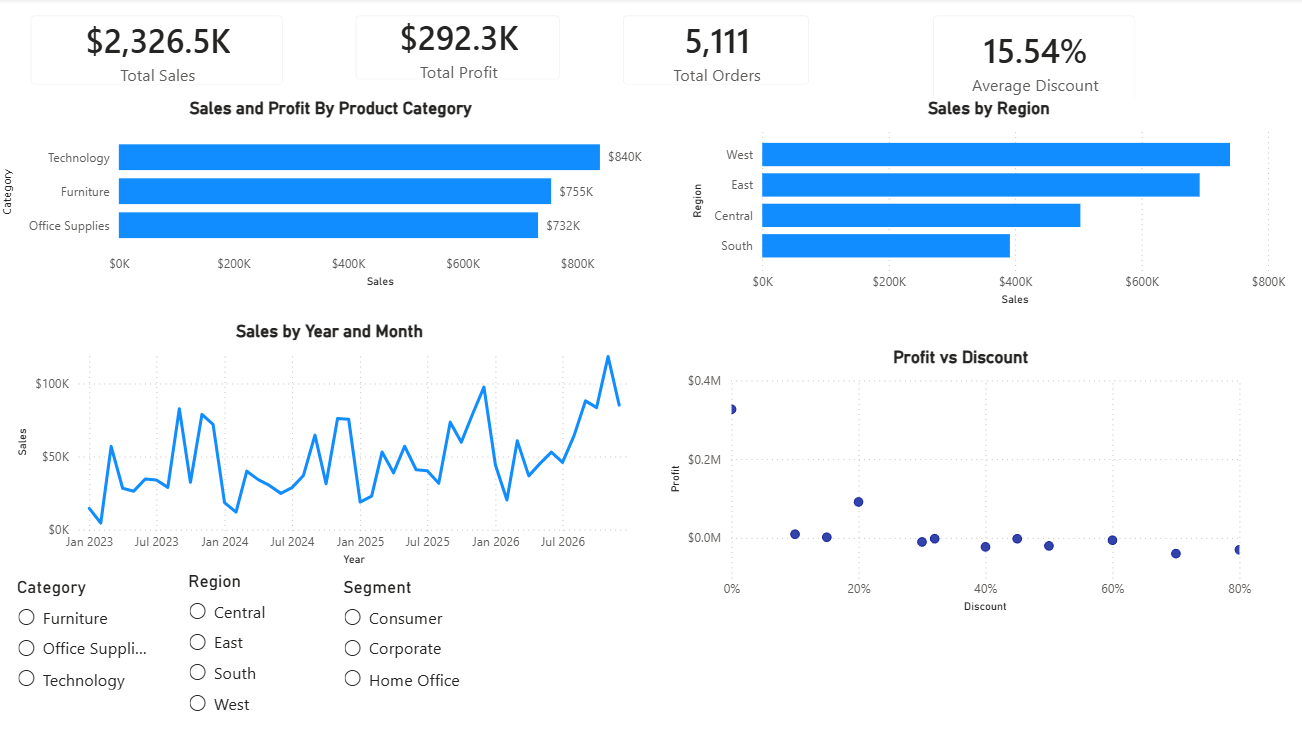
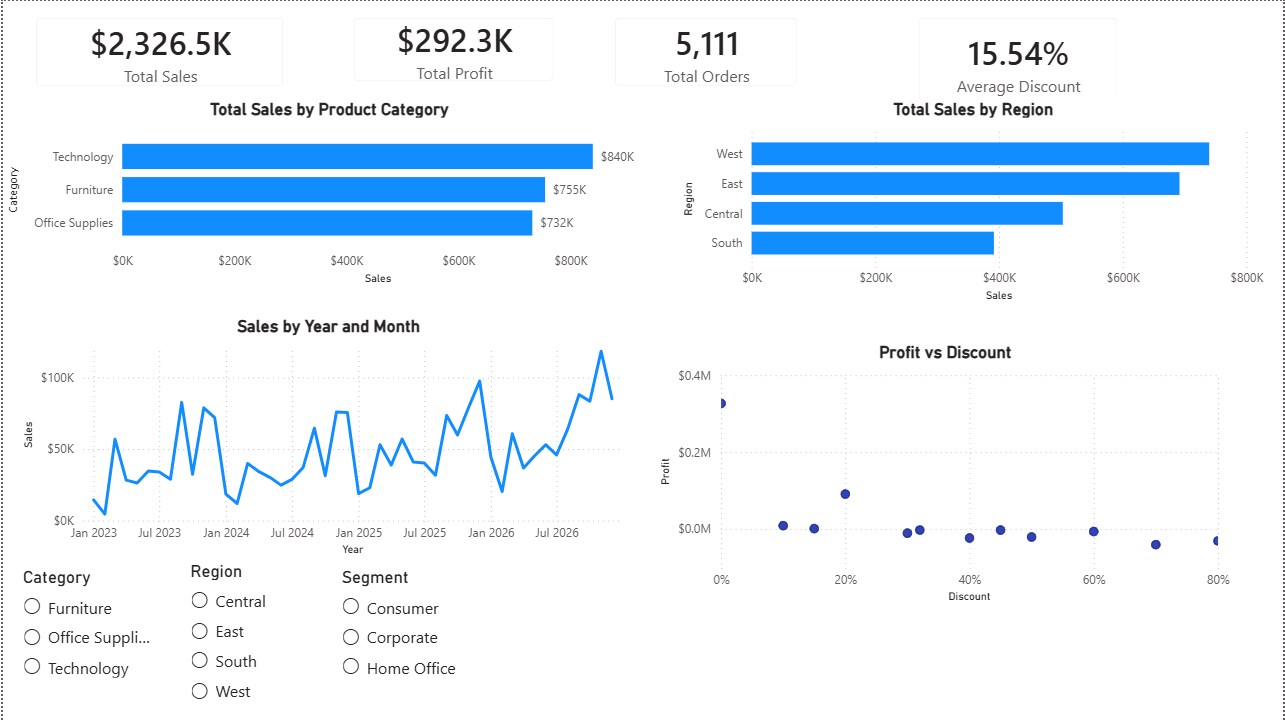
chart change

diff --git a/README.md b/README.md
@@ -47,10 +47,9 @@ These KPIs update dynamically when filters or slicers are applied, allowing user
 
 ## Sales and Profit by Product Category
 
-This chart compares total sales and total profit across the three product categories.
+This chart compares total sales across the three product categories.
 
-Its purpose is to identify which categories generate the highest revenue and whether high sales also translate into high profitability.
-
+Its purpose is to identify which categories generate the highest revenue
 
 
 ## Sales by Region
